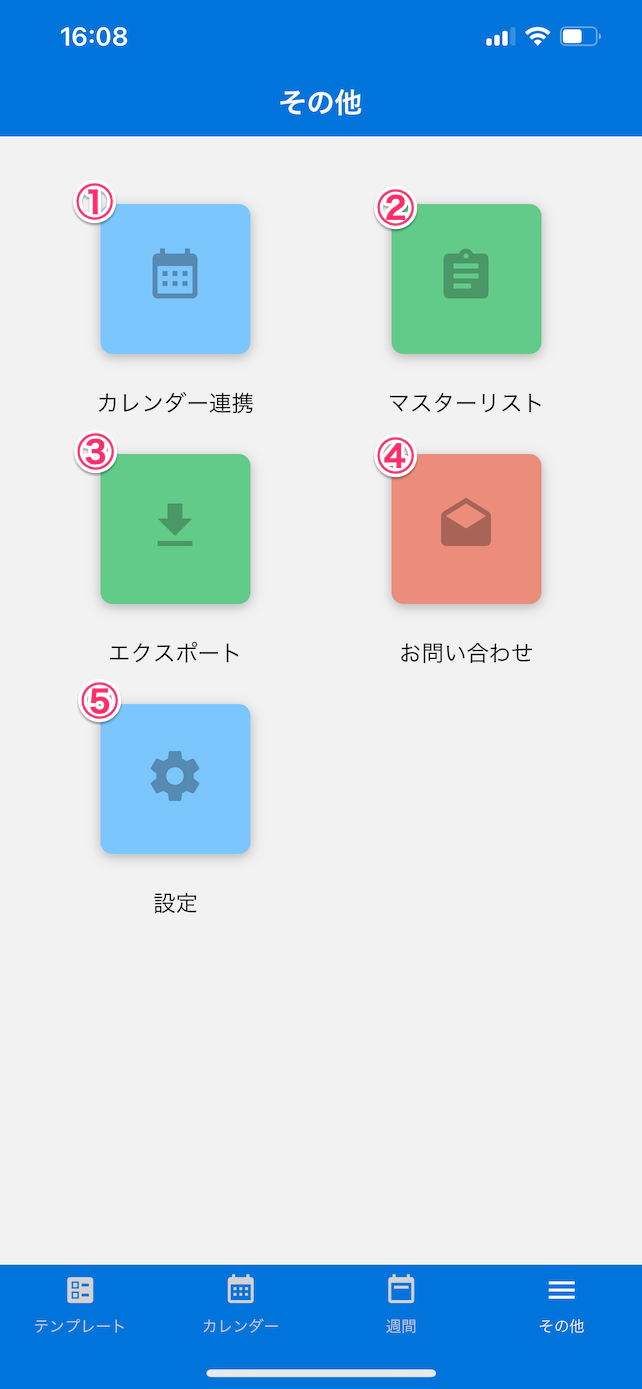
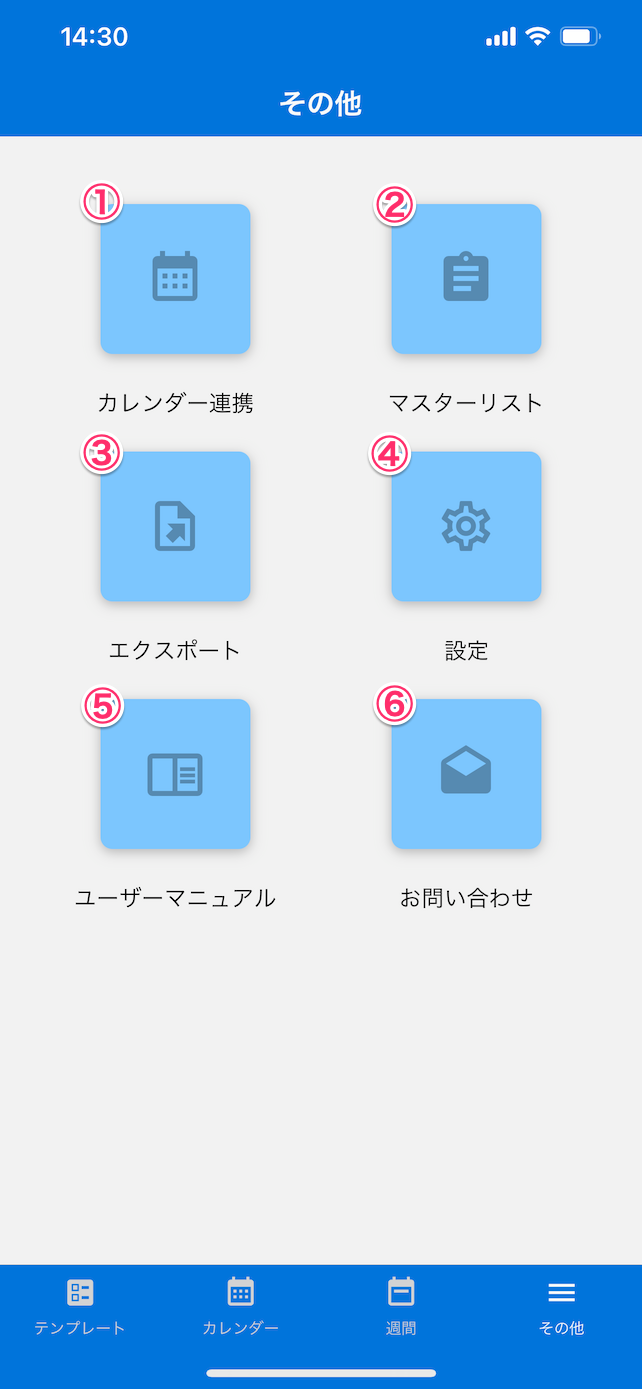
Update other screen

diff --git a/other.md b/other.md
@@ -14,7 +14,9 @@
 1. [`カレンダー連携`](./other/sync_calendar.md)：月・週カレンダーに表示するカレンダーを選択します。
 1. [`マスターリスト`](./other/master_list.md)：営業報告で利用する「目的」、「結果」、「見込度」の項目を設定します。
 1. [`エクスポート`](./other/export.md)：期間を指定し記録した内容をCSV形式でエクスポートします。
-1. [`お問い合わせ`](./other/contact_us.md)：システムのバージョン情報、ライセンス情報を表示します。
 1. [`設定`](./settings/base.md)：フォントサイズなどアプリの設定項目を表示します。
+1. `ユーザーマニュアル`：ユーザーマニュアルページを表示します。。
+1. [`お問い合わせ`](./other/contact_us.md)：システムのバージョン情報、ライセンス情報を表示します。
+
 
 [トップに戻る](./index.md)
